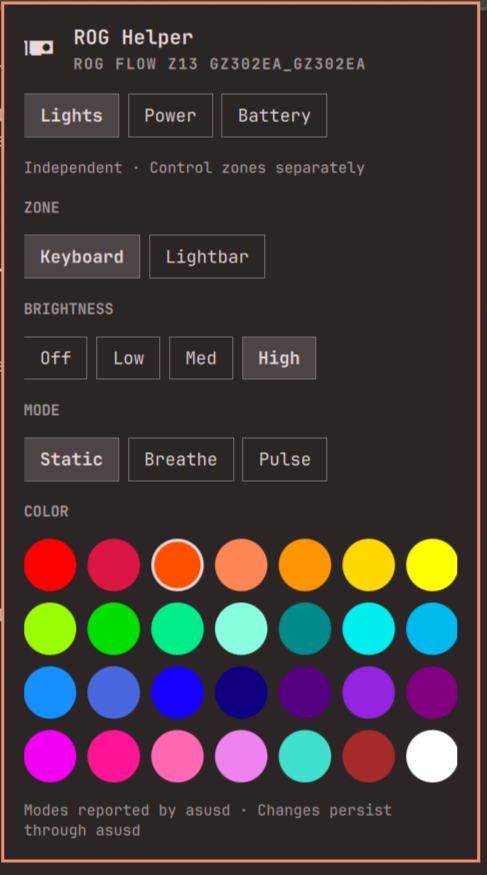
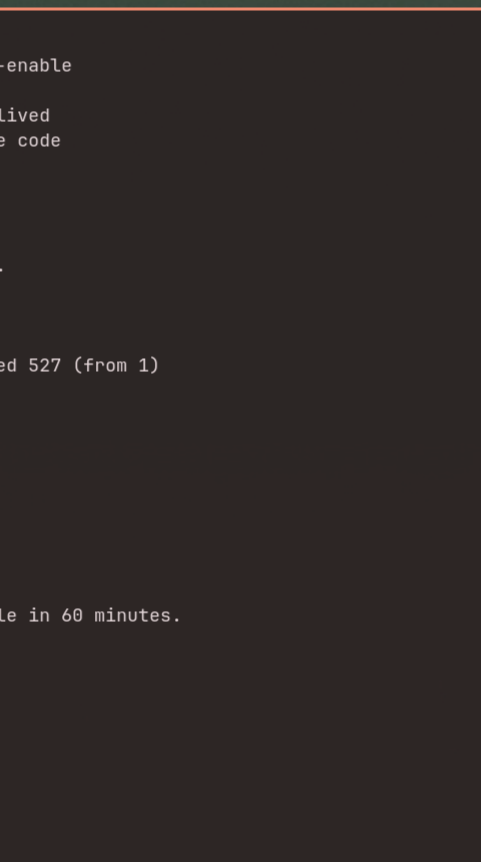
Record fresh shell validation and final panel preview

diff --git a/VALIDATION.md b/VALIDATION.md
@@ -49,3 +49,6 @@ Permission removal was checked on both device nodes. Removing udev rules/tags
 alone retained the active ACL; the final remover explicitly revokes the current
 user's ACL on the matching model-specific nodes. Empty user ACLs were confirmed
 before reinstalling both optional components.
+
+Final source was also validated after a clean Omarchy shell restart, including
+the native header toggle. No plugin load or QML runtime errors were observed.
